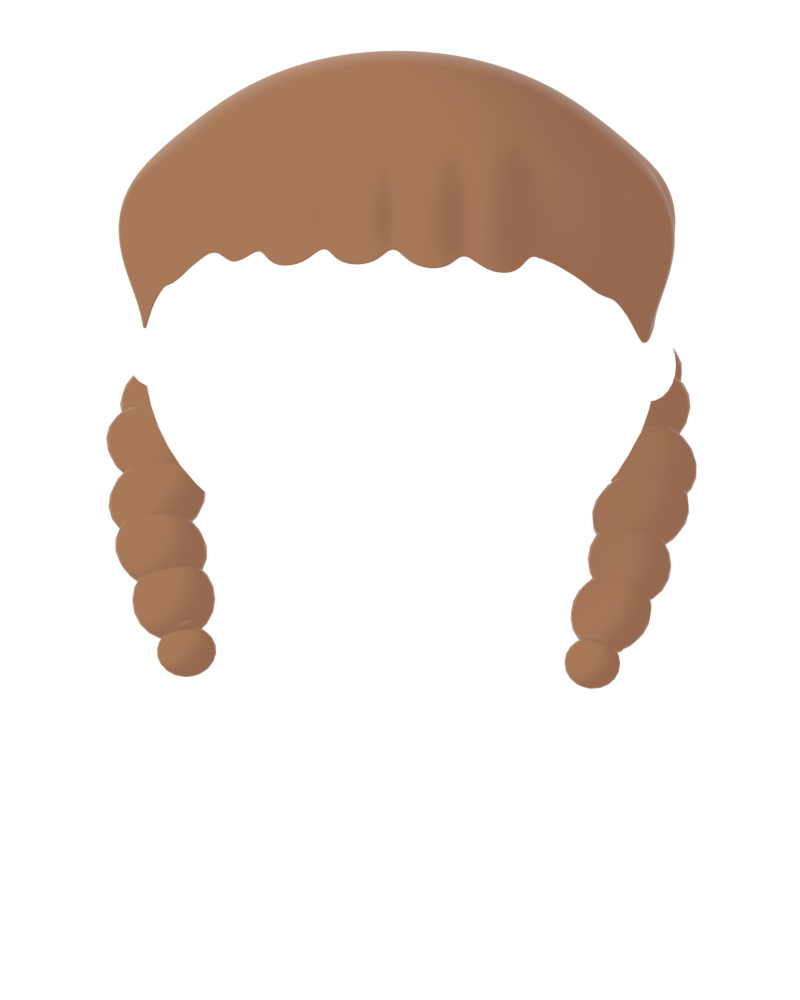
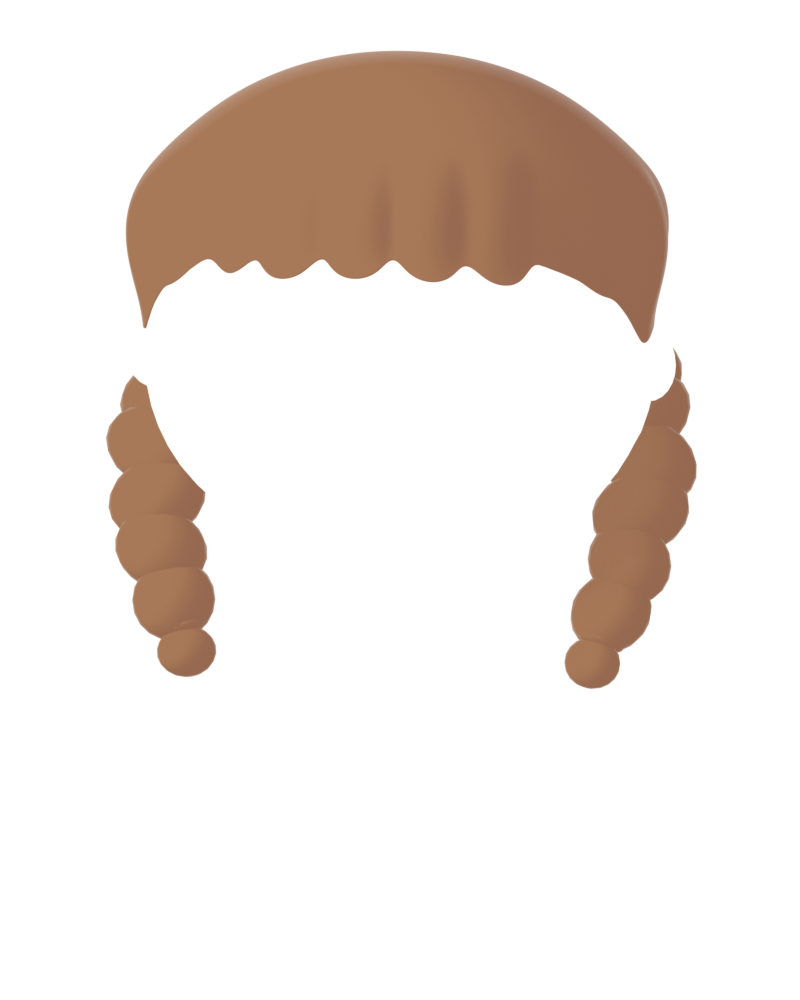
chore(art): 포니테일·양갈래 옆머리 볼륨을 줄이고 앞머리를 길게 한다
- side_vol을 0.045 → 0.028로 낮춰 옆머리를 자연스럽게 정리한다.
- 앞머리를 눈썹 바로 위까지 내린다(헤어라인과 덩어리 깊이 조정).
- hair_ponytail·hair_braids와 모자 변형 레이어를 다시 렌더한다. blend는 함께 작업 중인
  의상·남자 헤어 변경과 같이 커밋한다.

diff --git a/art/character/build_hair.py b/art/character/build_hair.py
@@ -59,12 +59,12 @@ STYLES = {
     # 상점: 포니테일(hair_ponytail). 넘긴 머리 + 머리 옆뒤에서 고무줄로 묶은 꼬리.
     # 꼬리는 고무줄에서 조였다가 바로 통통하게 부풀고, 끝은 바깥으로 살짝 튄다(동물의 숲 포니테일).
     "HAIR_AC_PONYTAIL": dict(
-        hairline=[(0, 0.830), (40, 0.820), (64, 0.730), (78, 0.665), (86, 0.675),
+        hairline=[(0, 0.815), (40, 0.808), (64, 0.730), (78, 0.665), (86, 0.675),
                   (94, 0.705), (110, 0.680), (140, 0.550), (180, 0.510)],
         fringe_count=3.5,
-        fringe_depth=0.040,
+        fringe_depth=0.050,  # 눈썹 바로 위까지 내려오는 앞머리
         vol=0.95,
-        side_vol=0.045,
+        side_vol=0.028,
         color=srgb("#B98E63"),
         parts=[
             # 캔버스 오른쪽 끝이 x≈0.42라 꼬리 바깥선은 0.40 안에 둔다.
@@ -81,12 +81,12 @@ STYLES = {
     ),
     # 상점: 양갈래 브레이드(hair_braids). 귀 뒤에서 어깨 앞으로 내려오는 땋은 머리 두 가닥.
     "HAIR_AC_BRAIDS": dict(
-        hairline=[(0, 0.805), (44, 0.795), (64, 0.725), (78, 0.660), (86, 0.670),
+        hairline=[(0, 0.798), (44, 0.790), (64, 0.725), (78, 0.660), (86, 0.670),
                   (94, 0.700), (110, 0.660), (140, 0.520), (165, 0.480), (180, 0.470)],
         fringe_count=5.5,
-        fringe_depth=0.030,
+        fringe_depth=0.038,  # 눈썹 바로 위까지 내려오는 앞머리
         vol=0.95,
-        side_vol=0.045,
+        side_vol=0.028,
         color=srgb("#A87958"),
         parts=[dict(kind="braid", mirror=True, seg=0.052, points=[
             (0.23, 0.10, 0.64, 0.062), (0.27, 0.03, 0.54, 0.060), (0.26, -0.03, 0.44, 0.056),
